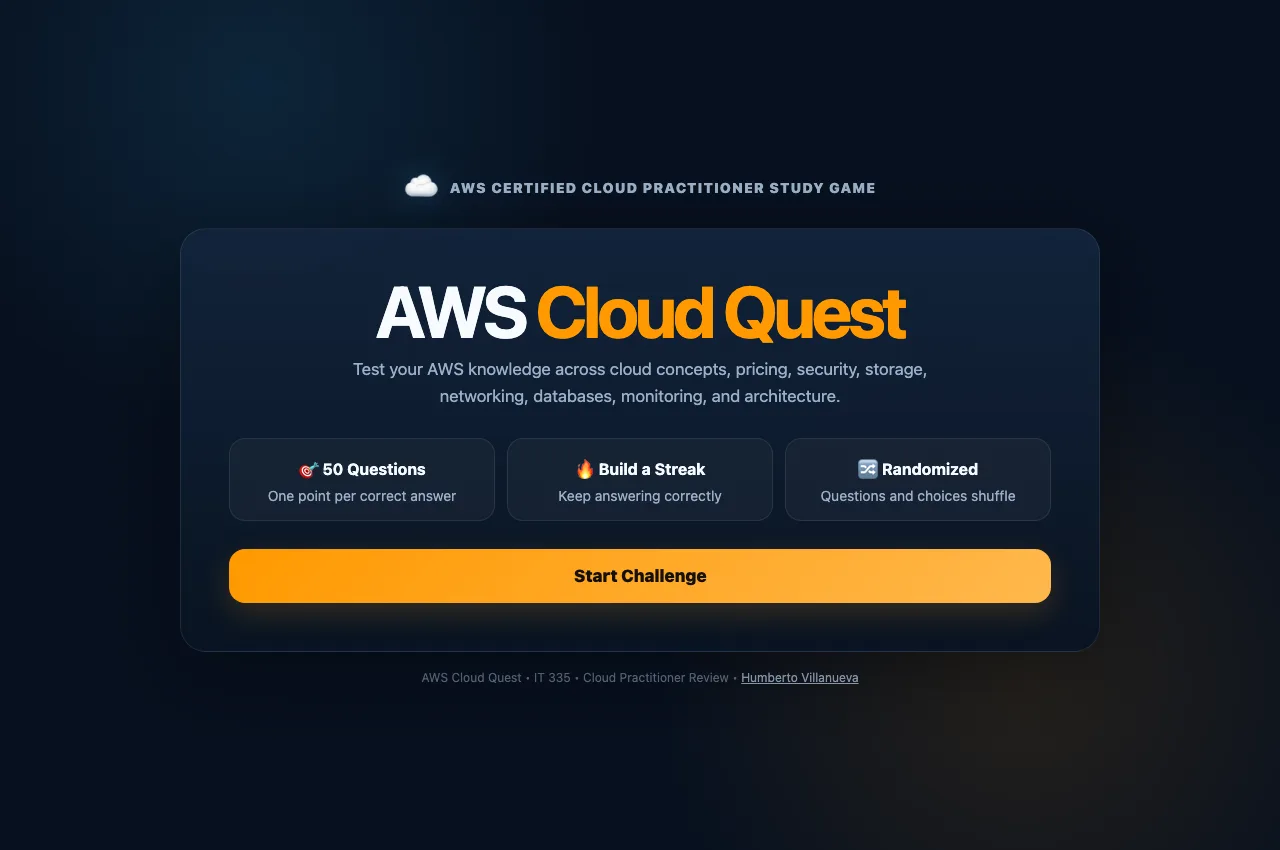
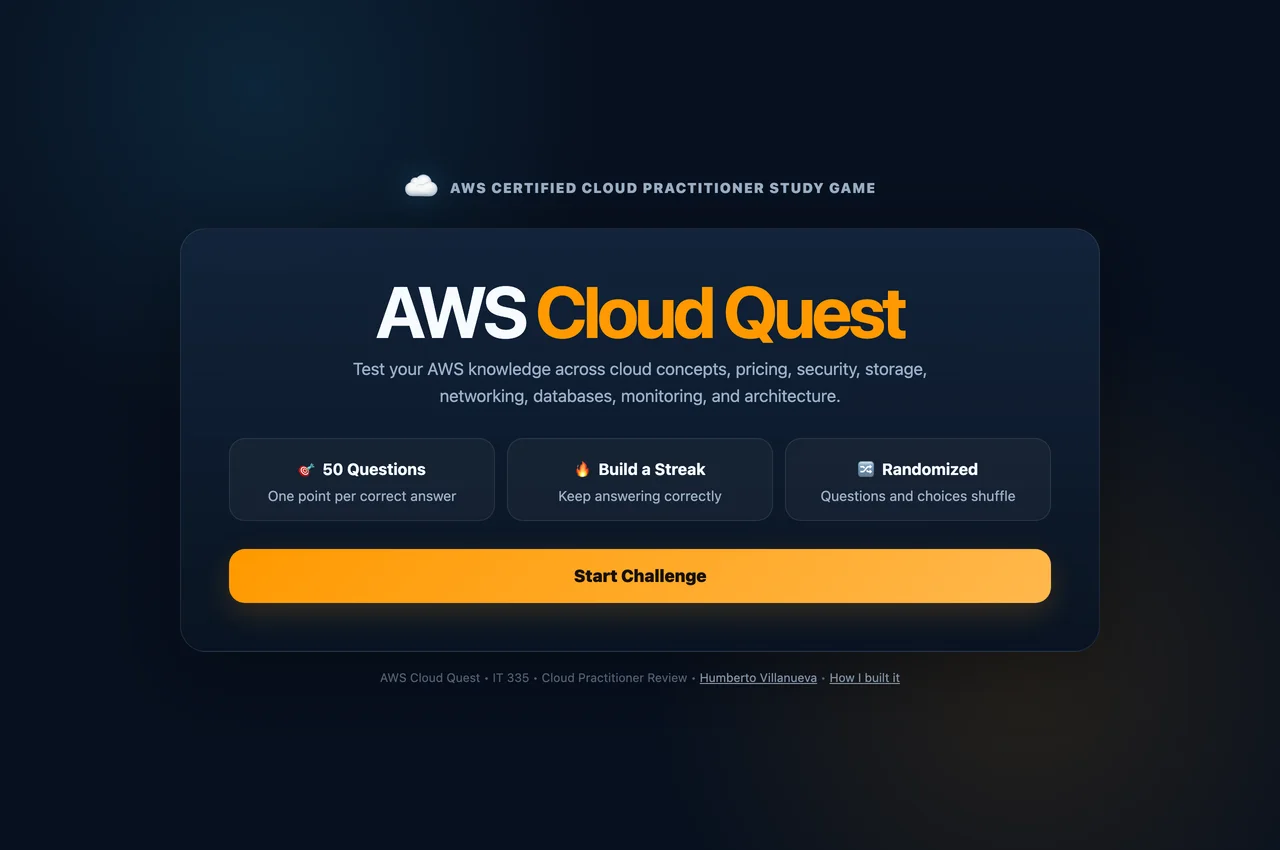
Fresh screenshots of DispatchTrack Lite and AWS Cloud Quest
Captured today from the public demos with their fictional sample data, at the same size as before; the captions now say October 2026.

diff --git a/app/project-evidence.tsx b/app/project-evidence.tsx
@@ -15,13 +15,13 @@ const evidence: Record<string, { image: string; alt: string; captured: string; d
   },
   "dispatchtrack-demo": {
     image: "dispatchtrack", alt: "DispatchTrack delivery dashboard showing fictional assignments, exceptions, and driver capacity",
-    captured: "September 2026",
+    captured: "October 2026",
     decision: "Model delivery states explicitly. Require a driver before dispatch and a note when recording an outcome.",
     limit: "The public demo uses browser storage and fictional data. Shared accounts and a hosted Java API are not connected.",
   },
   "aws-cloud-quest": {
     image: "cloud-quest", alt: "AWS Cloud Quest start screen with 50 questions, randomized choices, and streak tracking",
-    captured: "September 2026",
+    captured: "October 2026",
     decision: "Use immediate feedback and shuffled answers to turn passive study into active recall.",
     limit: "A dependency-free study game with 50 questions, not an official AWS exam or certification predictor.",
   },

diff --git a/public/projects/README.md b/public/projects/README.md
@@ -1,6 +1,6 @@
 # Portfolio screenshots
 
-Captured September 27, 2026 from the public demonstration applications, using fresh browser sessions and fictional/sample records. Optimized to WebP for the portfolio; these are screenshots, not product mockups.
+Captured from the public demonstration applications, using fresh browser sessions and fictional/sample records (`reality-commit.webp` on September 27, 2026; `dispatchtrack.webp` and `cloud-quest.webp` refreshed on October 14, 2026). Optimized to WebP for the portfolio; these are screenshots, not product mockups.
 
 - `dispatchtrack.webp`: https://humbertovillanueva.github.io/dispatchtrack-demo/
 - `cloud-quest.webp`: https://humbertovillanueva.github.io/aws-cloud-quest/
